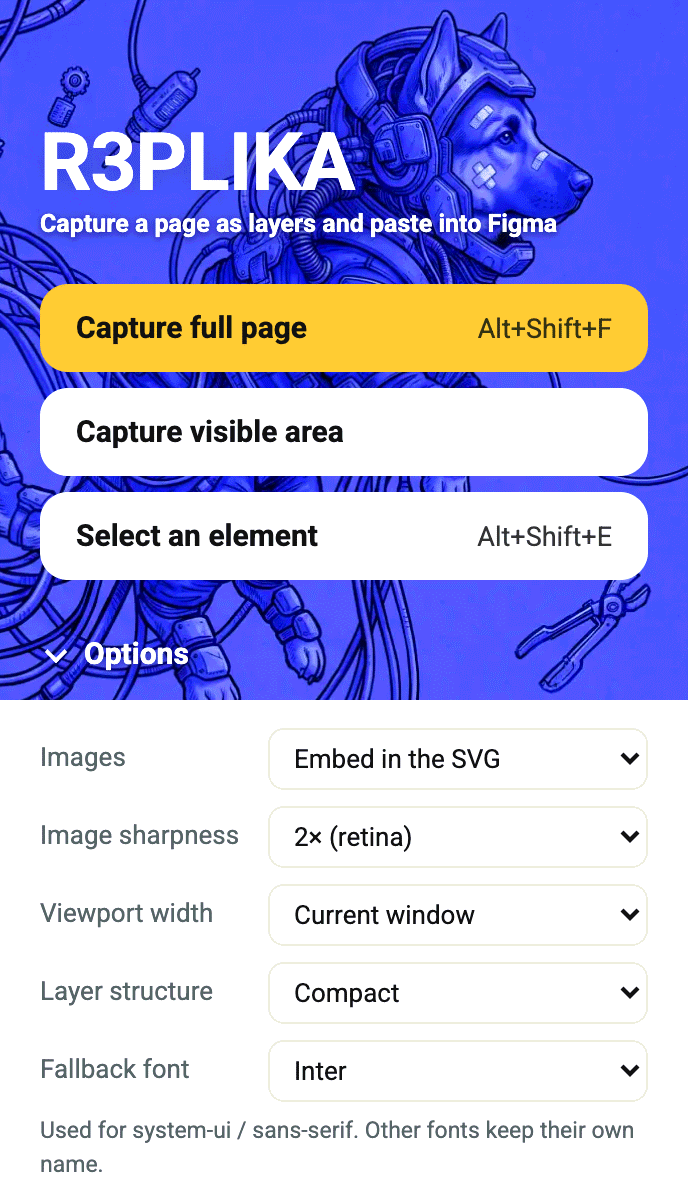
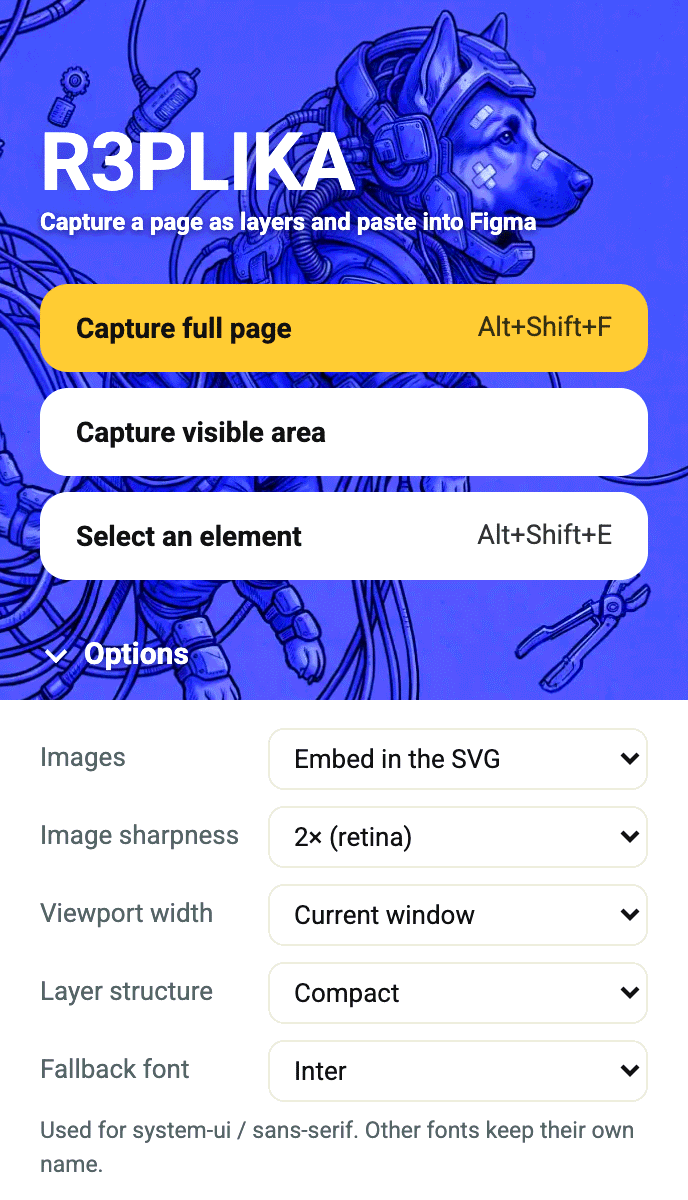
Smaller popup subtitle and button text; refresh screenshots

diff --git a/popup/popup.html b/popup/popup.html
@@ -29,10 +29,10 @@ h1{margin:0;font-weight:700;font-size:40px;line-height:1;letter-spacing:-.01em;c
 .title::before,.title::after{content:attr(data-text);position:absolute;left:0;top:0;pointer-events:none;opacity:0;mix-blend-mode:screen;text-shadow:none}
 .title::before{color:#7fe9ff;animation:gl1 calc(7s*var(--s)) infinite}
 .title::after{color:var(--amber);animation:gl2 calc(7s*var(--s)) infinite}
-.tag{margin:2px 0 0;font-weight:700;font-size:12.5px;line-height:1.3;color:#fff;text-shadow:0 1px 3px rgba(26,30,130,.75),0 0 10px rgba(26,30,130,.5)}
+.tag{margin:2px 0 0;font-weight:700;font-size:12px;line-height:1.3;color:#fff;text-shadow:0 1px 3px rgba(26,30,130,.75),0 0 10px rgba(26,30,130,.5)}
 
 .actions{display:grid;gap:8px;margin-top:22px}
-.act{display:flex;align-items:center;justify-content:space-between;gap:10px;width:100%;height:44px;padding:0 18px;border:0;border-radius:14px;background:#fff;color:var(--ink);font:700 15px/1 "Roboto",system-ui,sans-serif;text-align:left;cursor:pointer;position:relative;overflow:hidden;transition:transform .18s var(--ease),box-shadow .18s,background .15s}
+.act{display:flex;align-items:center;justify-content:space-between;gap:10px;width:100%;height:44px;padding:0 18px;border:0;border-radius:14px;background:#fff;color:var(--ink);font:700 14px/1 "Roboto",system-ui,sans-serif;text-align:left;cursor:pointer;position:relative;overflow:hidden;transition:transform .18s var(--ease),box-shadow .18s,background .15s}
 .act::after{content:"";position:absolute;inset:0;background:linear-gradient(110deg,transparent 35%,rgba(255,255,255,.6) 50%,transparent 65%);transform:translateX(-120%);opacity:0;pointer-events:none}
 .act:hover::after{opacity:1;transform:translateX(120%);transition:transform calc(.6s*var(--s)) ease}
 .act:hover{transform:translateY(-1px);box-shadow:0 8px 18px rgba(18,22,110,.35)}
